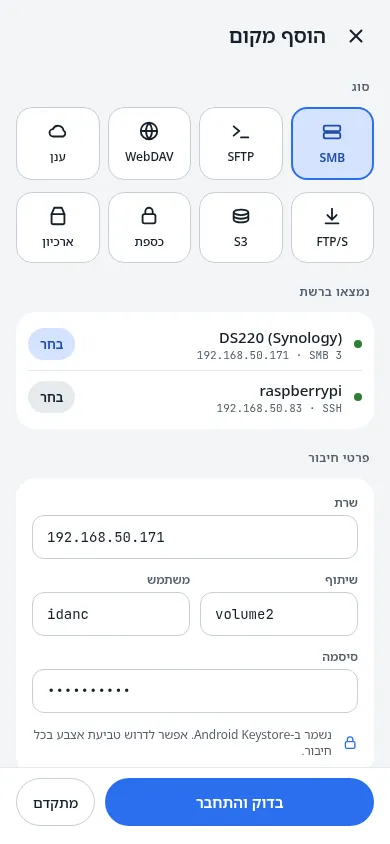
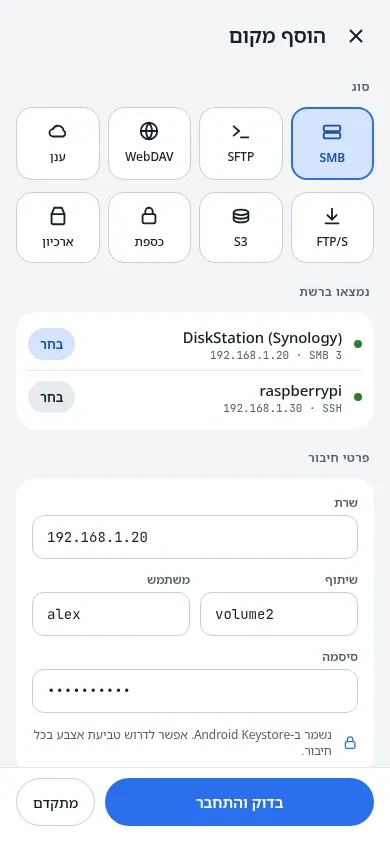
chore(privacy): replace home network details before going public
The repo is about to become public. Real LAN addresses, user names,
the Pi's SSH port, the NAS and router models, router firmware, and the
paths to the secrets on the Pi move out of the tree:

- tests, comments and six design boards (and their screenshots) use
  sample values (192.168.1.x, alex, pi, port 2222)
- the SSH host key in the tests is a freshly generated one
- worker/README, CLAUDE.md, ci.yml and the pre-commit hook no longer
  name the secret paths on the Pi
- the phone screenshots in docs/screenshots are removed
- QA: update-e2e no longer runs for a pull request whose head branch
  is named main (workflow_run's branch filter matches fork PRs too)

Claude-Session: https://claude.ai/code/session_018PUCULCDJXshSX6LQ1BSat

diff --git a/docs/design/boards/Search.dc.html b/docs/design/boards/Search.dc.html
@@ -48,21 +48,21 @@ a{color:#2B6FEE}a:hover{color:#1E4DA8}
     <div style="display: flex; align-items: center; gap: 14px; padding: 8px 16px; min-height: 60px">
       <div style="width: 44px; height: 44px; border-radius: 14px; background: #E6EAEE; color: #16202A; display: flex; align-items: center; justify-content: center; flex-shrink: 0"><svg width="22" height="22" viewBox="0 0 24 24" fill="none" stroke="currentColor" stroke-width="2" stroke-linejoin="round" aria-hidden="true"><path d="M6 3h8l4 4v14H6z"/><path d="M14 3v4h4"/><path d="M9 13h6M9 17h6"/></svg></div>
       <div style="flex: 1; min-width: 0; display: flex; flex-direction: column; gap: 2px">
-        <div style="font-size: 16px; font-weight: 500; direction: ltr; unicode-bidi: isolate; text-align: start; white-space: nowrap; overflow: hidden; text-overflow: ellipsis"><span style="background: #FBE7C9; border-radius: 4px; padding: 0 2px">router</span>-backup-388.1.cfg</div>
+        <div style="font-size: 16px; font-weight: 500; direction: ltr; unicode-bidi: isolate; text-align: start; white-space: nowrap; overflow: hidden; text-overflow: ellipsis"><span style="background: #FBE7C9; border-radius: 4px; padding: 0 2px">router</span>-backup-2.1.cfg</div>
         <div style="font-size: 12px; color: #52606D; font-family: 'JetBrains Mono', monospace; direction: ltr; unicode-bidi: isolate; text-align: start; white-space: nowrap; overflow: hidden; text-overflow: ellipsis">Download/system_config · 48 KB</div>
       </div>
     </div>
     <div style="display: flex; align-items: center; gap: 14px; padding: 8px 16px; min-height: 60px">
       <div style="width: 44px; height: 44px; border-radius: 14px; background: #D5E3FE; color: #1E4DA8; display: flex; align-items: center; justify-content: center; flex-shrink: 0"><svg width="22" height="22" viewBox="0 0 24 24" fill="none" stroke="currentColor" stroke-width="2" stroke-linejoin="round" aria-hidden="true"><path d="M3 6a2 2 0 0 1 2-2h4l2 2h8a2 2 0 0 1 2 2v10a2 2 0 0 1-2 2H5a2 2 0 0 1-2-2z"/></svg></div>
       <div style="flex: 1; min-width: 0; display: flex; flex-direction: column; gap: 2px">
-        <div style="font-size: 16px; font-weight: 500; direction: ltr; unicode-bidi: isolate; text-align: start">GT-AX11000_388.1_0</div>
+        <div style="font-size: 16px; font-weight: 500; direction: ltr; unicode-bidi: isolate; text-align: start">Firmware_2.1</div>
         <div style="font-size: 12px; color: #52606D; font-family: 'JetBrains Mono', monospace; direction: ltr; unicode-bidi: isolate; text-align: start">Download · 3 items</div>
       </div>
     </div>
     <div style="display: flex; align-items: center; gap: 14px; padding: 8px 16px; min-height: 60px">
       <div style="width: 44px; height: 44px; border-radius: 14px; background: #E6EAEE; color: #16202A; display: flex; align-items: center; justify-content: center; flex-shrink: 0"><svg width="22" height="22" viewBox="0 0 24 24" fill="none" stroke="currentColor" stroke-width="2" stroke-linejoin="round" aria-hidden="true"><path d="M8 3h8l3 7H5zM5 10v9a2 2 0 0 0 2 2h10a2 2 0 0 0 2-2v-9"/></svg></div>
       <div style="flex: 1; min-width: 0; display: flex; flex-direction: column; gap: 2px">
-        <div style="font-size: 16px; font-weight: 500; direction: ltr; unicode-bidi: isolate; text-align: start"><span style="background: #FBE7C9; border-radius: 4px; padding: 0 2px">router</span>-firmware-388.1.zip</div>
+        <div style="font-size: 16px; font-weight: 500; direction: ltr; unicode-bidi: isolate; text-align: start"><span style="background: #FBE7C9; border-radius: 4px; padding: 0 2px">router</span>-firmware-2.1.zip</div>
         <div style="font-size: 12px; color: #52606D; font-family: 'JetBrains Mono', monospace; direction: ltr; unicode-bidi: isolate; text-align: start">Download · 62.4 MB</div>
       </div>
     </div>
@@ -75,13 +75,13 @@ a{color:#2B6FEE}a:hover{color:#1E4DA8}
       <div style="width: 44px; height: 44px; border-radius: 14px; background: #E6EAEE; color: #16202A; display: flex; align-items: center; justify-content: center; flex-shrink: 0"><svg width="22" height="22" viewBox="0 0 24 24" fill="none" stroke="currentColor" stroke-width="2" stroke-linejoin="round" aria-hidden="true"><path d="M6 3h8l4 4v14H6z"/><path d="M14 3v4h4"/></svg></div>
       <div style="flex: 1; min-width: 0; display: flex; flex-direction: column; gap: 2px">
         <div style="font-size: 16px; font-weight: 500; direction: ltr; unicode-bidi: isolate; text-align: start"><span style="background: #FBE7C9; border-radius: 4px; padding: 0 2px">router</span>-notes.md</div>
-        <div style="font-size: 12px; color: #52606D; font-family: 'JetBrains Mono', monospace; direction: ltr; unicode-bidi: isolate; text-align: start">volume2/Obsidian/home-lab · 6 KB</div>
+        <div style="font-size: 12px; color: #52606D; font-family: 'JetBrains Mono', monospace; direction: ltr; unicode-bidi: isolate; text-align: start">volume2/Documents/network · 6 KB</div>
       </div>
     </div>
     <div style="display: flex; align-items: center; gap: 14px; padding: 8px 16px; min-height: 60px">
       <div style="width: 44px; height: 44px; border-radius: 14px; background: #E6EAEE; color: #16202A; display: flex; align-items: center; justify-content: center; flex-shrink: 0"><svg width="22" height="22" viewBox="0 0 24 24" fill="none" stroke="currentColor" stroke-width="2" stroke-linejoin="round" aria-hidden="true"><path d="M8 3h8l3 7H5zM5 10v9a2 2 0 0 0 2 2h10a2 2 0 0 0 2-2v-9"/></svg></div>
       <div style="flex: 1; min-width: 0; display: flex; flex-direction: column; gap: 2px">
-        <div style="font-size: 16px; font-weight: 500; direction: ltr; unicode-bidi: isolate; text-align: start"><span style="background: #FBE7C9; border-radius: 4px; padding: 0 2px">router</span>-backup-386.tar.gz</div>
+        <div style="font-size: 16px; font-weight: 500; direction: ltr; unicode-bidi: isolate; text-align: start"><span style="background: #FBE7C9; border-radius: 4px; padding: 0 2px">router</span>-backup-2.0.tar.gz</div>
         <div style="font-size: 12px; color: #52606D; font-family: 'JetBrains Mono', monospace; direction: ltr; unicode-bidi: isolate; text-align: start">volume2/Backups/router · 1.2 MB</div>
       </div>
     </div>

diff --git a/docs/design/boards/SelectList.dc.html b/docs/design/boards/SelectList.dc.html
@@ -47,7 +47,7 @@ a{color:#2B6FEE}a:hover{color:#1E4DA8}
     <!-- נבחר -->
     <div style="display: flex; align-items: center; gap: 14px; padding: 10px 16px; min-height: 64px; box-sizing: border-box; background: #EEF3FF">
       <div style="width: 44px; height: 44px; border-radius: 14px; background: #E6EAEE; color: #16202A; display: flex; align-items: center; justify-content: center; flex-shrink: 0"><svg width="22" height="22" viewBox="0 0 24 24" fill="none" stroke="currentColor" stroke-width="2" stroke-linejoin="round" aria-hidden="true"><path d="M6 3h8l4 4v14H6z"/><path d="M14 3v4h4"/><path d="M9 13h6M9 17h6"/></svg></div>
-      <div style="flex: 1; min-width: 0; display: flex; flex-direction: column; gap: 2px"><div style="font-size: 16px; font-weight: 500; line-height: 20px; direction: ltr; unicode-bidi: isolate; text-align: start">router-backup-388.1.cfg</div><div style="font-size: 13px; color: #52606D; line-height: 16px"><span style="font-family: 'JetBrains Mono', monospace; direction: ltr; unicode-bidi: isolate">48 KB</span> · 12 באוק׳</div></div>
+      <div style="flex: 1; min-width: 0; display: flex; flex-direction: column; gap: 2px"><div style="font-size: 16px; font-weight: 500; line-height: 20px; direction: ltr; unicode-bidi: isolate; text-align: start">router-backup-2.1.cfg</div><div style="font-size: 13px; color: #52606D; line-height: 16px"><span style="font-family: 'JetBrains Mono', monospace; direction: ltr; unicode-bidi: isolate">48 KB</span> · 12 באוק׳</div></div>
       <div style="width: 24px; height: 24px; border-radius: 7px; background: #2B6FEE; color: #FFFFFF; display: flex; align-items: center; justify-content: center; flex-shrink: 0"><svg width="16" height="16" viewBox="0 0 24 24" fill="none" stroke="currentColor" stroke-width="3" stroke-linecap="round" stroke-linejoin="round" aria-hidden="true"><path d="M5 12l5 5 9-10"/></svg></div>
     </div>
 
@@ -65,13 +65,13 @@ a{color:#2B6FEE}a:hover{color:#1E4DA8}
 
     <div style="display: flex; align-items: center; gap: 14px; padding: 10px 16px; min-height: 64px; box-sizing: border-box">
       <div style="width: 44px; height: 44px; border-radius: 14px; background: #E6EAEE; color: #B3261E; display: flex; align-items: center; justify-content: center; flex-shrink: 0"><svg width="22" height="22" viewBox="0 0 24 24" fill="none" stroke="currentColor" stroke-width="2" stroke-linejoin="round" aria-hidden="true"><path d="M6 3h8l4 4v14H6z"/><path d="M14 3v4h4"/></svg></div>
-      <div style="flex: 1; min-width: 0; display: flex; flex-direction: column; gap: 2px"><div style="font-size: 16px; font-weight: 500; line-height: 20px; direction: ltr; unicode-bidi: isolate; text-align: start">GT-AX11000_manual.pdf</div><div style="font-size: 13px; color: #52606D; line-height: 16px"><span style="font-family: 'JetBrains Mono', monospace; direction: ltr; unicode-bidi: isolate">8.7 MB</span> · 10 באוק׳</div></div>
+      <div style="flex: 1; min-width: 0; display: flex; flex-direction: column; gap: 2px"><div style="font-size: 16px; font-weight: 500; line-height: 20px; direction: ltr; unicode-bidi: isolate; text-align: start">router-manual.pdf</div><div style="font-size: 13px; color: #52606D; line-height: 16px"><span style="font-family: 'JetBrains Mono', monospace; direction: ltr; unicode-bidi: isolate">8.7 MB</span> · 10 באוק׳</div></div>
       <div style="width: 24px; height: 24px; border-radius: 7px; border: 2px solid #C7CED5; box-sizing: border-box; flex-shrink: 0"></div>
     </div>
 
     <div style="display: flex; align-items: center; gap: 14px; padding: 10px 16px; min-height: 64px; box-sizing: border-box">
       <div style="width: 44px; height: 44px; border-radius: 14px; background: #E6EAEE; color: #16202A; display: flex; align-items: center; justify-content: center; flex-shrink: 0"><svg width="22" height="22" viewBox="0 0 24 24" fill="none" stroke="currentColor" stroke-width="2" stroke-linejoin="round" aria-hidden="true"><rect x="5" y="3" width="14" height="18" rx="2"/><path d="M10 3v4h4V3M10 11h4M10 14h4"/></svg></div>
-      <div style="flex: 1; min-width: 0; display: flex; flex-direction: column; gap: 2px"><div style="font-size: 16px; font-weight: 500; line-height: 20px; direction: ltr; unicode-bidi: isolate; text-align: start">firmware-388.1.zip</div><div style="font-size: 13px; color: #52606D; line-height: 16px"><span style="font-family: 'JetBrains Mono', monospace; direction: ltr; unicode-bidi: isolate">62.4 MB</span> · 9 באוק׳</div></div>
+      <div style="flex: 1; min-width: 0; display: flex; flex-direction: column; gap: 2px"><div style="font-size: 16px; font-weight: 500; line-height: 20px; direction: ltr; unicode-bidi: isolate; text-align: start">firmware-2.1.zip</div><div style="font-size: 13px; color: #52606D; line-height: 16px"><span style="font-family: 'JetBrains Mono', monospace; direction: ltr; unicode-bidi: isolate">62.4 MB</span> · 9 באוק׳</div></div>
       <div style="width: 24px; height: 24px; border-radius: 7px; border: 2px solid #C7CED5; box-sizing: border-box; flex-shrink: 0"></div>
     </div>
 

diff --git a/docs/design/boards/Connect.dc.html b/docs/design/boards/Connect.dc.html
@@ -43,13 +43,13 @@ a{color:#2B6FEE}a:hover{color:#1E4DA8}
     <div style="background: #FFFFFF; border-radius: 20px; padding: 6px 12px; display: flex; flex-direction: column">
       <div style="display: flex; align-items: center; gap: 12px; min-height: 52px">
         <span style="width: 8px; height: 8px; border-radius: 4px; background: #2E7D32"></span>
-        <div style="flex: 1; min-width: 0; display: flex; flex-direction: column; gap: 1px"><span style="font-size: 15px; font-weight: 500">DS220 (Synology)</span><span style="font-family: 'JetBrains Mono', monospace; font-size: 11px; color: #52606D; direction: ltr; text-align: end">192.168.50.171 · SMB 3</span></div>
+        <div style="flex: 1; min-width: 0; display: flex; flex-direction: column; gap: 1px"><span style="font-size: 15px; font-weight: 500">DiskStation (Synology)</span><span style="font-family: 'JetBrains Mono', monospace; font-size: 11px; color: #52606D; direction: ltr; text-align: end">192.168.1.20 · SMB 3</span></div>
         <button style="height: 32px; padding: 0 12px; border: 0; border-radius: 999px; background: #D5E3FE; color: #1E4DA8; font-family: inherit; font-size: 13px; font-weight: 600">בחר</button>
       </div>
       <div style="height: 1px; background: #E6EAEE"></div>
       <div style="display: flex; align-items: center; gap: 12px; min-height: 52px">
         <span style="width: 8px; height: 8px; border-radius: 4px; background: #2E7D32"></span>
-        <div style="flex: 1; min-width: 0; display: flex; flex-direction: column; gap: 1px"><span style="font-size: 15px; font-weight: 500">raspberrypi</span><span style="font-family: 'JetBrains Mono', monospace; font-size: 11px; color: #52606D; direction: ltr; text-align: end">192.168.50.83 · SSH</span></div>
+        <div style="flex: 1; min-width: 0; display: flex; flex-direction: column; gap: 1px"><span style="font-size: 15px; font-weight: 500">raspberrypi</span><span style="font-family: 'JetBrains Mono', monospace; font-size: 11px; color: #52606D; direction: ltr; text-align: end">192.168.1.30 · SSH</span></div>
         <button style="height: 32px; padding: 0 12px; border: 0; border-radius: 999px; background: #E6EAEE; color: #16202A; font-family: inherit; font-size: 13px; font-weight: 600">בחר</button>
       </div>
     </div>
@@ -58,7 +58,7 @@ a{color:#2B6FEE}a:hover{color:#1E4DA8}
     <div style="background: #FFFFFF; border-radius: 20px; padding: 16px; display: flex; flex-direction: column; gap: 12px">
       <div style="display: flex; flex-direction: column; gap: 4px">
         <label for="host" style="font-size: 12px; font-weight: 600; color: #52606D">שרת</label>
-        <input id="host" type="text" value="192.168.50.171" style="height: 44px; box-sizing: border-box; padding: 0 14px; border: 1px solid #C7CED5; border-radius: 12px; font-family: 'JetBrains Mono', monospace; font-size: 14px; color: #16202A; direction: ltr; background: #FFFFFF">
+        <input id="host" type="text" value="192.168.1.20" style="height: 44px; box-sizing: border-box; padding: 0 14px; border: 1px solid #C7CED5; border-radius: 12px; font-family: 'JetBrains Mono', monospace; font-size: 14px; color: #16202A; direction: ltr; background: #FFFFFF">
       </div>
       <div style="display: grid; grid-template-columns: repeat(2, minmax(0, 1fr)); gap: 10px">
         <div style="display: flex; flex-direction: column; gap: 4px">
@@ -67,7 +67,7 @@ a{color:#2B6FEE}a:hover{color:#1E4DA8}
         </div>
         <div style="display: flex; flex-direction: column; gap: 4px">
           <label for="user" style="font-size: 12px; font-weight: 600; color: #52606D">משתמש</label>
-          <input id="user" type="text" value="idanc" style="height: 44px; box-sizing: border-box; padding: 0 14px; border: 1px solid #C7CED5; border-radius: 12px; font-family: 'JetBrains Mono', monospace; font-size: 14px; color: #16202A; direction: ltr; background: #FFFFFF">
+          <input id="user" type="text" value="alex" style="height: 44px; box-sizing: border-box; padding: 0 14px; border: 1px solid #C7CED5; border-radius: 12px; font-family: 'JetBrains Mono', monospace; font-size: 14px; color: #16202A; direction: ltr; background: #FFFFFF">
         </div>
       </div>
       <div style="display: flex; flex-direction: column; gap: 4px">

diff --git a/app/src/test/kotlin/com/idanck/nexplorer/data/net/NetConnectionTest.kt b/app/src/test/kotlin/com/idanck/nexplorer/data/net/NetConnectionTest.kt
@@ -12,10 +12,10 @@ class NetConnectionTest {
         id = "a1b2c3d4e5f6",
         protocol = NetProtocol.Smb,
         name = "NAS",
-        host = "192.168.50.171",
+        host = "192.168.1.20",
         port = null,
         share = "volume2",
-        user = "idanc",
+        user = "alex",
         secret = "aXY=:c2Vh",
     )
 
@@ -39,10 +39,10 @@ class NetConnectionTest {
         assertEquals("smb://a1b2c3d4e5f6/volume2", nas.root)
         assertEquals("smb://a1b2c3d4e5f6", nas.copy(share = "").root)
         assertEquals("NAS", nas.label)
-        assertEquals("192.168.50.171", nas.copy(name = " ").label)
-        assertEquals("idanc@192.168.50.171", nas.subtitle)
-        assertEquals("192.168.50.83:4450", nas.copy(user = "", host = "192.168.50.83", port = 4450).subtitle)
-        assertEquals("smb://192.168.50.171/volume2/Photos", nas.displayUrl("${nas.root}/Photos"))
+        assertEquals("192.168.1.20", nas.copy(name = " ").label)
+        assertEquals("alex@192.168.1.20", nas.subtitle)
+        assertEquals("192.168.1.30:4450", nas.copy(user = "", host = "192.168.1.30", port = 4450).subtitle)
+        assertEquals("smb://192.168.1.20/volume2/Photos", nas.displayUrl("${nas.root}/Photos"))
         assertEquals("NAS › volume2 › Photos", nas.displayPath("${nas.root}/Photos"))
         assertEquals(445, nas.effectivePort)
     }
@@ -59,29 +59,29 @@ class NetConnectionTest {
         id = "0f0f0f0f0f0f",
         protocol = NetProtocol.Sftp,
         name = "",
-        host = "192.168.50.83",
-        port = 41725,
-        share = "home/idan",
-        user = "idan",
+        host = "192.168.1.30",
+        port = 2222,
+        share = "home/pi",
+        user = "pi",
         secret = "aXY=:cGs=",
-        hostKey = "ssh-ed25519 AAAAC3NzaC1lZDI1NTE5AAAAIARk2H5Oiday1HWmOEmiYJHdVqW5oLiGDoUrxA4N8FWP",
+        hostKey = "ssh-ed25519 AAAAC3NzaC1lZDI1NTE5AAAAIAwCQ3YO9UUcgTvXdrMIpuZbCOR6Pv8embB8zCEKNkUf",
         keySecret = "aXY=:a2V5",
     )
 
     @Test
     fun `sftp keeps the host key and the private key`() {
         assertEquals(listOf(pi), NetConnection.decode(NetConnection.encode(listOf(pi))))
-        assertEquals("sftp://0f0f0f0f0f0f/home/idan", pi.root)
+        assertEquals("sftp://0f0f0f0f0f0f/home/pi", pi.root)
         assertEquals("sftp://0f0f0f0f0f0f", pi.copy(share = "").root)
-        assertEquals("idan@192.168.50.83:41725", pi.subtitle)
-        assertEquals("sftp://192.168.50.83:41725/home/idan/x", pi.displayUrl("${pi.root}/x"))
-        assertEquals("sftp://192.168.50.83:41725/", pi.displayUrl("sftp://0f0f0f0f0f0f"))
+        assertEquals("pi@192.168.1.30:2222", pi.subtitle)
+        assertEquals("sftp://192.168.1.30:2222/home/pi/x", pi.displayUrl("${pi.root}/x"))
+        assertEquals("sftp://192.168.1.30:2222/", pi.displayUrl("sftp://0f0f0f0f0f0f"))
         assertEquals(22, pi.copy(port = null).effectivePort)
     }
 
     @Test
     fun `records saved before sftp have no keys`() {
-        val old = """[{"id":"a1b2c3d4e5f6","protocol":"Smb","name":"NAS","host":"192.168.50.171","port":null,"share":"volume2","user":"idanc","domain":"","secret":"aXY=:c2Vh"}]"""
+        val old = """[{"id":"a1b2c3d4e5f6","protocol":"Smb","name":"NAS","host":"192.168.1.20","port":null,"share":"volume2","user":"alex","domain":"","secret":"aXY=:c2Vh"}]"""
         assertEquals(listOf(nas), NetConnection.decode(old))
     }
 

diff --git a/app/src/test/kotlin/com/idanck/nexplorer/core/DavAddressTest.kt b/app/src/test/kotlin/com/idanck/nexplorer/core/DavAddressTest.kt
@@ -10,7 +10,7 @@ class DavAddressTest {
     fun `nextcloud, synology and bare hosts`() {
         assertEquals(DavAddress("cloud.example.com", null, "remote.php/dav/files/idan", false), DavAddress.parse("https://cloud.example.com/remote.php/dav/files/idan/"))
         assertEquals(DavAddress("nas.local", 5006, "dav", false), DavAddress.parse("nas.local:5006/dav"))
-        assertEquals(DavAddress("192.168.50.171", 5005, "", true), DavAddress.parse(" http://192.168.50.171:5005 "))
+        assertEquals(DavAddress("192.168.1.20", 5005, "", true), DavAddress.parse(" http://192.168.1.20:5005 "))
         assertEquals(DavAddress("host", null, "", true), DavAddress.parse("http://host:80/"))
         assertEquals(DavAddress("host", null, "a", false), DavAddress.parse("davs://host:443/a"))
         assertEquals(DavAddress("fe80::1", 8443, "dav", false), DavAddress.parse("https://[fe80::1]:8443/dav"))
@@ -21,7 +21,7 @@ class DavAddressTest {
 
     @Test
     fun `paths are decoded and spaces are allowed`() {
-        assertEquals("remote.php/dav/files/Idan Cohen", DavAddress.parse("https://h/remote.php/dav/files/Idan Cohen")!!.path)
+        assertEquals("remote.php/dav/files/Jane Doe", DavAddress.parse("https://h/remote.php/dav/files/Jane Doe")!!.path)
         assertEquals("files/תמונות", DavAddress.parse("https://h/files/%D7%AA%D7%9E%D7%95%D7%A0%D7%95%D7%AA")!!.path)
     }
 

diff --git a/app/src/main/kotlin/com/idanck/nexplorer/data/net/NetConnection.kt b/app/src/main/kotlin/com/idanck/nexplorer/data/net/NetConnection.kt
@@ -50,7 +50,7 @@ data class NetConnection(
     val root: String
         get() = NetPaths.root(protocol, id).let { if (share.isBlank() || protocol == NetProtocol.WebDav) it else NetPaths.child(it, share) }
 
-    /** "idanc@192.168.50.171" — בשורה שמתחת לשם במגירה (כמו "idan@192.168.50.83:41725" בלוח). */
+    /** "alex@192.168.1.20" — בשורה שמתחת לשם במגירה (כמו "pi@192.168.1.30:2222" בלוח). */
     val subtitle: String
         get() = buildString {
             if (user.isNotBlank()) append(user).append('@')
@@ -58,7 +58,7 @@ data class NetConnection(
             if (port != null && port != defaultPort) append(':').append(port)
         }
 
-    /** "smb://192.168.50.171/volume2/Photos" או "sftp://192.168.50.83/home/idan" — מה ש"העתק נתיב" נותן בתוך החיבור. */
+    /** "smb://192.168.1.20/volume2/Photos" או "sftp://192.168.1.30/home/pi" — מה ש"העתק נתיב" נותן בתוך החיבור. */
     fun displayUrl(path: String): String {
         val segments = NetPaths.segments(path)
         val authority = host + if (port != null && port != defaultPort) ":$port" else ""

diff --git a/app/src/test/kotlin/com/idanck/nexplorer/data/net/SshHostKeysTest.kt b/app/src/test/kotlin/com/idanck/nexplorer/data/net/SshHostKeysTest.kt
@@ -9,12 +9,12 @@ import java.util.Base64
 /** טביעות האצבע כמו ש-`ssh-keygen -l -E sha256` מציג אותן (הערכים נוצרו בו). */
 class SshHostKeysTest {
 
-    private val ed25519 = "ssh-ed25519 AAAAC3NzaC1lZDI1NTE5AAAAIARk2H5Oiday1HWmOEmiYJHdVqW5oLiGDoUrxA4N8FWP"
+    private val ed25519 = "ssh-ed25519 AAAAC3NzaC1lZDI1NTE5AAAAIAwCQ3YO9UUcgTvXdrMIpuZbCOR6Pv8embB8zCEKNkUf"
     private val ecdsa = "ecdsa-sha2-nistp256 AAAAE2VjZHNhLXNoYTItbmlzdHAyNTYAAAAIbmlzdHAyNTYAAABBBBPeSEtaZo+BXrwXvQcbhN5q9ihAEVA+eUC6tcvNiA/wXYQp4nMESvLbfw1gl1QxVDK32yuQRwUJlMbEdq/W/A8="
 
     @Test
     fun `fingerprints match ssh-keygen`() {
-        assertEquals("SHA256:D5+W/fqDhQGOFlEIJr/5vInqwzAUW+13E0dY2MaF9sM", SshHostKeys.fingerprint(ed25519))
+        assertEquals("SHA256:BrfXUfJmrxs/twJKE/GTfwLPFg+919M4RqQe/vK2RXs", SshHostKeys.fingerprint(ed25519))
         assertEquals("SHA256:uQ9x6DtFonJ8O8QFJ/5oxaDsgd9HIC7sEmPZq8PpQAI", SshHostKeys.fingerprint(ecdsa))
         assertNull(SshHostKeys.fingerprint("ssh-ed25519"))
         assertNull(SshHostKeys.fingerprint("ssh-ed25519 !!!"))

diff --git a/docs/design/boards/Main.dc.html b/docs/design/boards/Main.dc.html
@@ -107,7 +107,7 @@ a{color:#2B6FEE}a:hover{color:#1E4DA8}
         <svg width="22" height="22" viewBox="0 0 24 24" fill="none" stroke="currentColor" stroke-width="2" stroke-linejoin="round" aria-hidden="true"><path d="M6 3h8l4 4v14H6z"/><path d="M14 3v4h4"/><path d="M9 13h6M9 17h6"/></svg>
       </div>
       <div style="flex: 1; min-width: 0; display: flex; flex-direction: column; gap: 2px">
-        <div style="font-size: 16px; font-weight: 500; line-height: 20px; direction: ltr; unicode-bidi: isolate; text-align: start">router-backup-388.1.cfg</div>
+        <div style="font-size: 16px; font-weight: 500; line-height: 20px; direction: ltr; unicode-bidi: isolate; text-align: start">router-backup-2.1.cfg</div>
         <div style="font-size: 13px; color: #52606D; line-height: 16px"><span style="font-family: 'JetBrains Mono', monospace; direction: ltr; unicode-bidi: isolate">48 KB</span> · 17 בספט׳, 13:03</div>
       </div>
     </div>

diff --git a/docs/design/boards/Drawer.dc.html b/docs/design/boards/Drawer.dc.html
@@ -79,7 +79,7 @@ a{color:#2B6FEE}a:hover{color:#1E4DA8}
         <div style="width: 40px; height: 40px; border-radius: 12px; background: #E6EAEE; color: #16202A; display: flex; align-items: center; justify-content: center; flex-shrink: 0"><svg width="20" height="20" viewBox="0 0 24 24" fill="none" stroke="currentColor" stroke-width="2" stroke-linecap="round" aria-hidden="true"><path d="M4 17l6-5-6-5M12 19h8"/></svg></div>
         <div style="flex: 1; min-width: 0; display: flex; flex-direction: column; gap: 2px">
           <span style="font-size: 15px; font-weight: 500">Pi · SFTP</span>
-          <span style="font-family: 'JetBrains Mono', monospace; font-size: 11px; color: #52606D; direction: ltr; text-align: end">idan@192.168.50.83:41725</span>
+          <span style="font-family: 'JetBrains Mono', monospace; font-size: 11px; color: #52606D; direction: ltr; text-align: end">pi@192.168.1.30:2222</span>
         </div>
       </div>
 

diff --git a/app/src/test/kotlin/com/idanck/nexplorer/core/SearchQueryTest.kt b/app/src/test/kotlin/com/idanck/nexplorer/core/SearchQueryTest.kt
@@ -15,7 +15,7 @@ class SearchQueryTest {
 
     @Test
     fun `wildcards anchor to the whole name`() {
-        assertTrue(SearchQuery.parse("router*").matches("router-backup-388.1.cfg"))
+        assertTrue(SearchQuery.parse("router*").matches("router-backup-2.1.cfg"))
         assertFalse(SearchQuery.parse("router*").matches("old-router.cfg"))
         assertTrue(SearchQuery.parse("*.jpg").matches("IMG_1.JPG"))
         assertTrue(SearchQuery.parse("IMG_?.jpg").matches("IMG_1.jpg"))
@@ -25,7 +25,7 @@ class SearchQueryTest {
     @Test
     fun `not and or`() {
         val q = SearchQuery.parse("router* !old")
-        assertTrue(q.matches("router-backup-388.1.cfg"))
+        assertTrue(q.matches("router-backup-2.1.cfg"))
         assertFalse(q.matches("router-old.cfg"))
         val or = SearchQuery.parse("*.jpg | *.png")
         assertTrue(or.matches("a.png"))

diff --git a/app/src/main/kotlin/com/idanck/nexplorer/ui/browser/BrowserScreen.kt b/app/src/main/kotlin/com/idanck/nexplorer/ui/browser/BrowserScreen.kt
@@ -527,7 +527,7 @@ fun BrowserScreen(
                                     onMove = { vm.copyToClipboard(selected.map { it.path }, cut = true) },
                                     onCopyPath = {
                                         single?.let {
-                                            // ברשת: הכתובת בשרת (smb://192.168.50.171/volume2/…), לא המזהה הפנימי.
+                                            // ברשת: הכתובת בשרת (smb://192.168.1.20/volume2/…), לא המזהה הפנימי.
                                             clipboardManager.setText(AnnotatedString(state.connection?.displayUrl(it.path) ?: it.path))
                                             message("הנתיב הועתק")
                                         }

diff --git a/docs/design/boards/Transfer.dc.html b/docs/design/boards/Transfer.dc.html
@@ -88,7 +88,7 @@ a{color:#2B6FEE}a:hover{color:#1E4DA8}
 
       <div style="display: flex; align-items: center; gap: 10px; padding: 4px 14px 0 14px">
         <svg width="18" height="18" viewBox="0 0 24 24" fill="none" stroke="#2E7D32" stroke-width="2.5" stroke-linecap="round" stroke-linejoin="round" aria-hidden="true"><path d="M5 12l5 5 9-10"/></svg>
-        <span style="flex: 1; font-size: 13px; color: #52606D; direction: ltr; unicode-bidi: isolate; text-align: start">router-backup-388.1.cfg → Pi/backups</span>
+        <span style="flex: 1; font-size: 13px; color: #52606D; direction: ltr; unicode-bidi: isolate; text-align: start">router-backup-2.1.cfg → Pi/backups</span>
         <span style="font-size: 12px; color: #52606D">לפני 3 דק׳</span>
       </div>
     </div>
